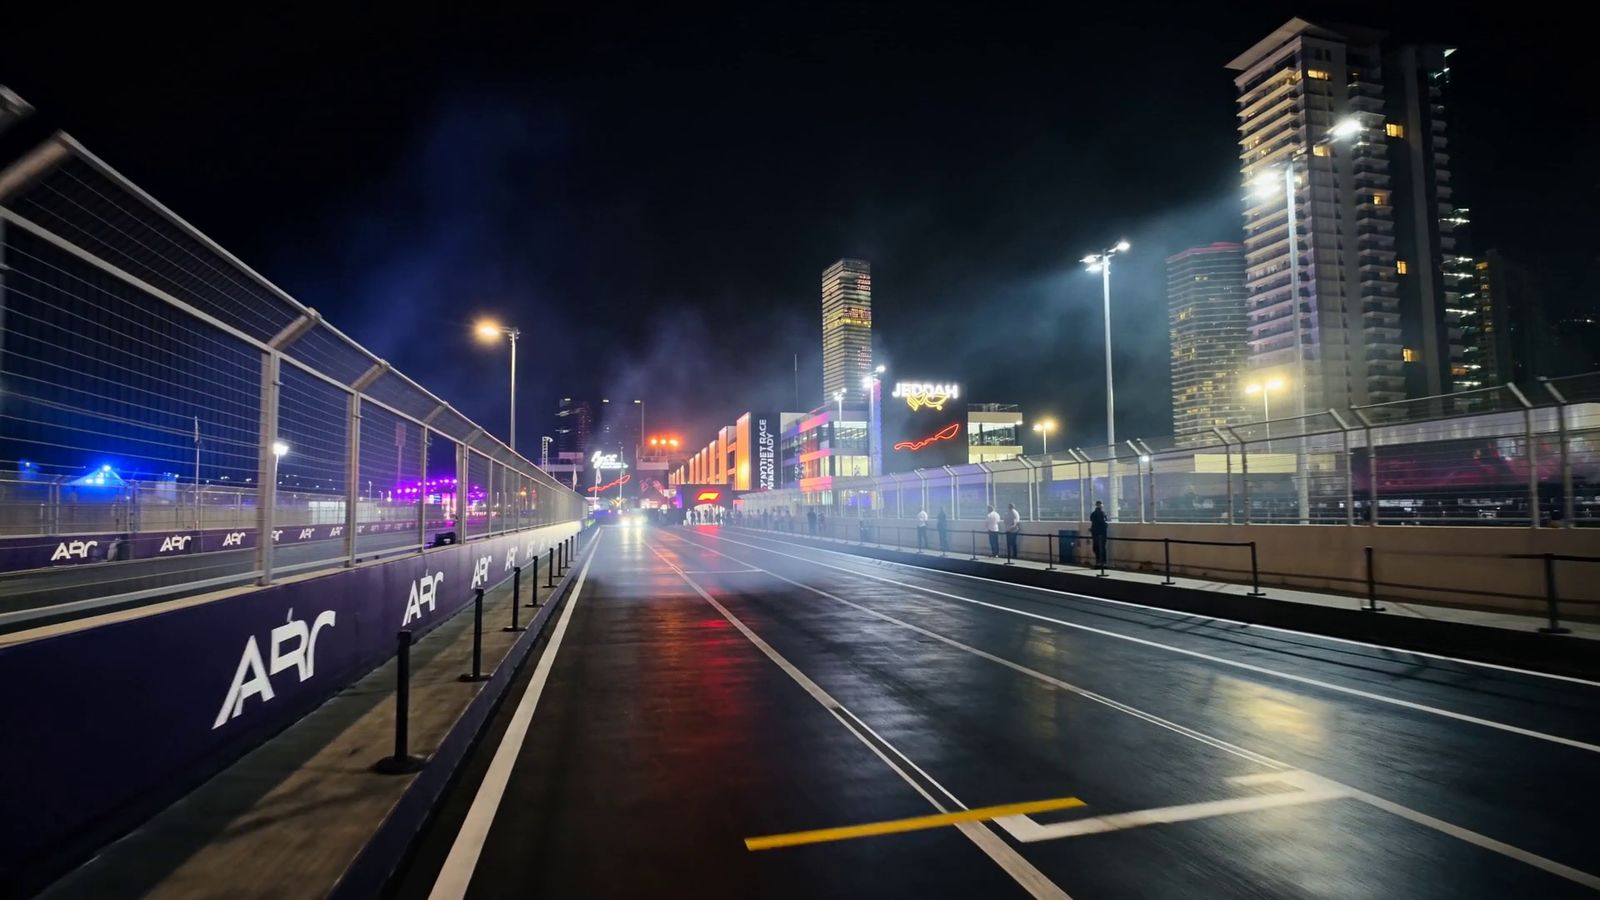
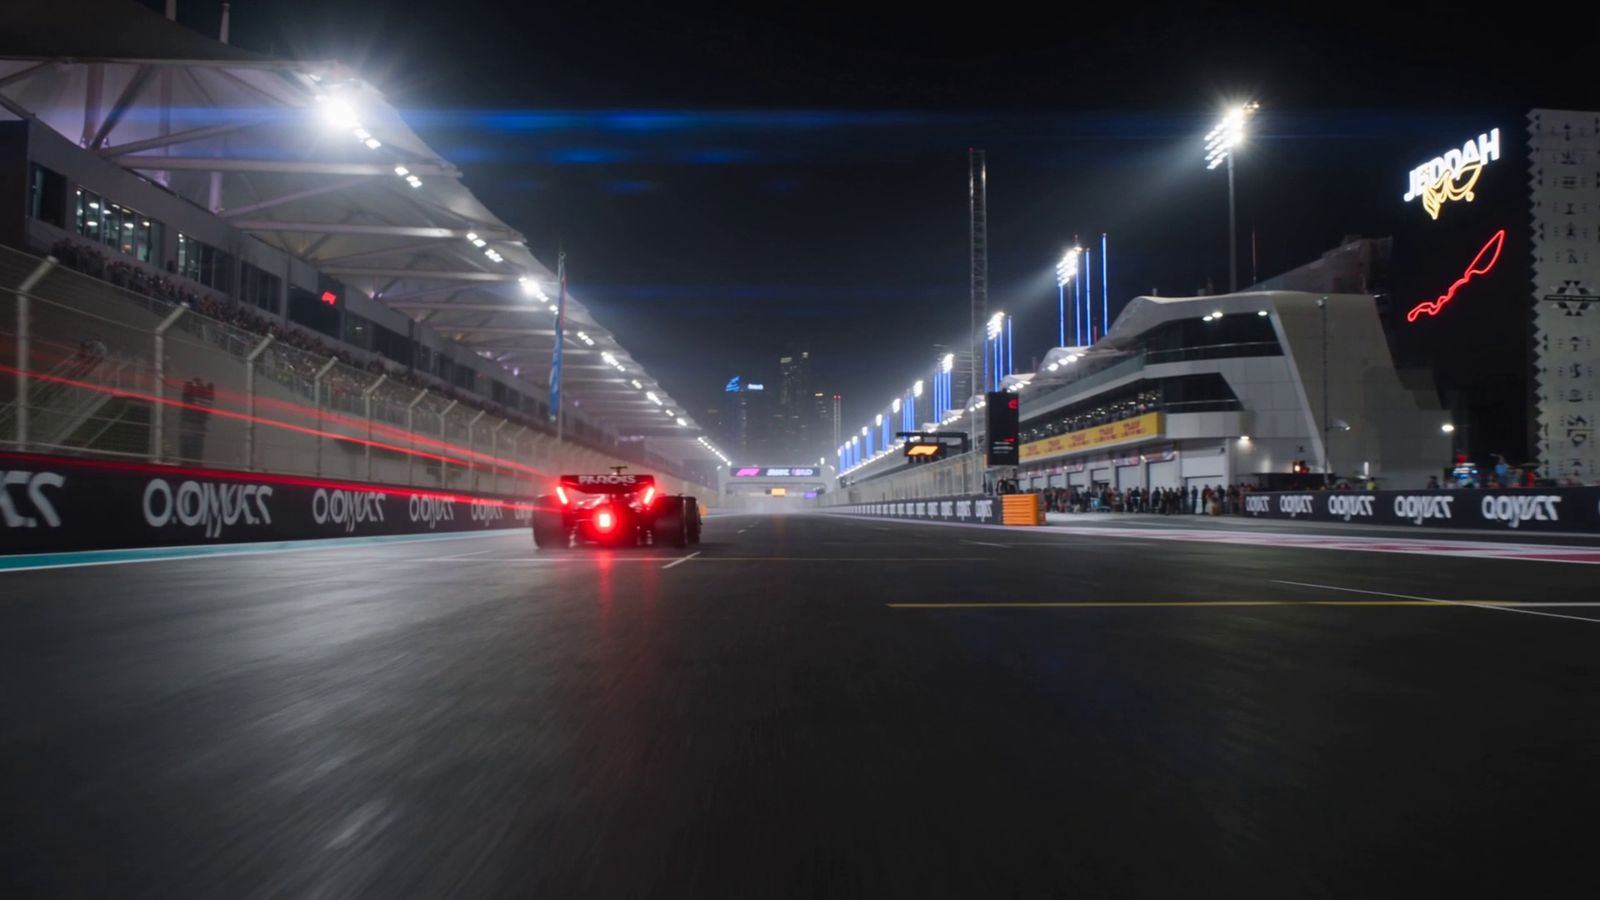
Refactor code structure for improved readability and maintainability

diff --git a/src/components/sections/Work.jsx b/src/components/sections/Work.jsx
@@ -5,13 +5,14 @@ import { projects } from '../../data/projects'
 import { Reveal } from '../animations/Reveal'
 import ProjectCard from '../ui/ProjectCard'
 
-// Editorial asymmetric layout: [7|5] [5|7] [7|cta]
+// Editorial asymmetric layout for 6 featured projects: [7|5] [5|7] [7|5]
 const LAYOUT = [
   { span: 'lg:col-span-7', size: 'lg' },
   { span: 'lg:col-span-5', size: 'md' },
   { span: 'lg:col-span-5', size: 'md' },
   { span: 'lg:col-span-7', size: 'lg' },
   { span: 'lg:col-span-7', size: 'lg' },
+  { span: 'lg:col-span-5', size: 'md' },
 ]
 
 function Cell({ children, span, i }) {
@@ -49,39 +50,10 @@ export default function Work() {
 
         <div className="grid grid-cols-1 lg:grid-cols-12 gap-4 md:gap-5">
           {projects.map((p, i) => (
-            <Cell key={p.slug} span={LAYOUT[i].span} i={i}>
-              <ProjectCard project={p} size={LAYOUT[i].size} />
+            <Cell key={p.slug} span={(LAYOUT[i] || LAYOUT[LAYOUT.length - 1]).span} i={i}>
+              <ProjectCard project={p} size={(LAYOUT[i] || LAYOUT[LAYOUT.length - 1]).size} />
             </Cell>
           ))}
-
-          {/* CTA tile fills the asymmetric gap */}
-          <motion.div
-            className="lg:col-span-5"
-            initial={{ opacity: 0, y: 30 }}
-            whileInView={{ opacity: 1, y: 0 }}
-            viewport={{ once: true, margin: '-60px' }}
-            transition={{ duration: 0.7, delay: 0.08, ease: [0.16, 1, 0.3, 1] }}
-          >
-            <Link
-              to="/work"
-              data-cursor="hover"
-              className="group flex flex-col justify-between h-full min-h-[280px] rounded-md border border-line-strong bg-ink-800/40 p-7 transition-colors duration-500 hover:border-acid hover:bg-ink-800"
-            >
-              <span className="font-display font-black text-fg-dim text-lg tabular-nums">/ WORK</span>
-              <div>
-                <h3 className="font-display font-bold text-2xl md:text-3xl leading-tight">
-                  Every build tells a story.
-                </h3>
-                <p className="mt-3 font-body text-sm text-fg-muted max-w-[32ch]">
-                  Explore the full portfolio — challenge, solution, execution and scale.
-                </p>
-                <span className="mt-6 inline-flex items-center gap-2 font-body text-sm text-acid">
-                  See all case studies
-                  <HiArrowRight className="transition-transform duration-300 group-hover:translate-x-1" />
-                </span>
-              </div>
-            </Link>
-          </motion.div>
         </div>
       </div>
     </section>

diff --git a/src/data/projects.js b/src/data/projects.js
@@ -112,6 +112,32 @@ export const projects = [
     gallery: [],
   },
   {
+    slug: 'katusha-exhibition',
+    title: 'Katusha',
+    client: 'Katusha',
+    year: '2025',
+    location: 'KSA',
+    category: 'Exhibition',
+    image: '/images/katusha-stand.jpg',
+    tags: ['Exhibition stand', 'Design & fabrication', 'Branding & signage'],
+    summary:
+      'A premium exhibition stand for Katusha, designed and fabricated in-house, with bespoke structures, illuminated product vitrines and full branding and signage systems.',
+    featured: true,
+    challenge:
+      'A flagship show-floor presence for Katusha and its co-brands (Rosatom, AYA) that had to read as premium and secure, and stand apart on a crowded exhibition floor.',
+    solution:
+      'A fully bespoke, engineered stand: an illuminated branded gantry, glass product vitrines with brass detailing, integrated screens and clean lit counters, built and installed to exhibition standard.',
+    execution:
+      'Exhibition stand design, bespoke fabricated structures, product display systems, LED lighting, and branding and signage systems.',
+    scale: [
+      { v: 'Custom', l: 'Bespoke stand build' },
+      { v: 'Multi-brand', l: 'Katusha · Rosatom · AYA' },
+      { v: '2025', l: 'Delivery' },
+    ],
+    services: ['Stand design', 'Bespoke fabrication', 'Product displays', 'Branding & signage', 'LED lighting'],
+    gallery: ['/images/katusha-aisle.jpg', '/images/katusha-render.jpg'],
+  },
+  {
     slug: 'fortinet-corporate-event',
     title: 'Fortinet Corporate Event',
     client: 'Fortinet Inc.',

diff --git a/src/components/ui/BackButton.jsx b/src/components/ui/BackButton.jsx
@@ -8,8 +8,7 @@ import { HiArrowLeft } from 'react-icons/hi2'
 export default function BackButton({ label = 'Back', className = '' }) {
   const navigate = useNavigate()
   const goBack = () => {
-    if (window.history.length > 1) navigate(-1)
-    else navigate('/')
+    navigate('/')
   }
   return (
     <button

diff --git a/CLAUDE.md b/CLAUDE.md
@@ -22,7 +22,9 @@ There is **no test or lint script** configured (package.json has only dev/build/
 
 ## Tech stack
 
-React 19 + Vite 5 · Tailwind CSS 3 · Framer Motion 12 (all animation) · Lenis (smooth scroll) · react-router-dom 7 · react-helmet-async (SEO) · react-icons · Resend (contact email, serverless only). Deploys to **Vercel** (project root = this `frontend/` folder).
+React 19 + Vite 5 · Tailwind CSS 3 · Framer Motion 12 (all animation) · Lenis (smooth scroll) · react-router-dom 7 · react-helmet-async (SEO) · react-icons · Resend (contact email, serverless only). Deploys to **Vercel**.
+
+The Vite app lives at the **repository root** — `src/`, `public/`, `api/`, `index.html`, `vite.config.js`, `package.json`, `vercel.json` are all at the top level (the app was flattened up from an earlier `frontend/` subfolder, so ignore any lingering `frontend/…` path references).
 
 ## Architecture
 
@@ -47,6 +49,7 @@ React 19 + Vite 5 · Tailwind CSS 3 · Framer Motion 12 (all animation) · Lenis
 
 - **Button variants**: never override a variant's color by appending a `className` (Tailwind precedence is source-order, not class-order — this once produced a black-on-black button). Add a new variant in `components/ui/Button.jsx` instead (e.g. `dark`).
 - **Nav items** (`company.js` `nav`): items use **`href`** for in-page anchors (Home sections) or **`to`** for routes. `Navbar` and `Footer` branch on which is present; anchor clicks from a non-home route navigate home first, then scroll (via Lenis `getLenis()`).
+- **Featured Work grid** (`components/sections/Work.jsx`): its `LAYOUT` array drives an asymmetric 6-card grid (`[7|5] [5|7] [7|5]`) and is sized to the number of `projects`. If you add/remove a project in `data/projects.js`, update `LAYOUT` to keep the rows balanced (it falls back to the last entry so it won't crash). The `/work` index page (`pages/Work.jsx`) has its own `SIZES` array.
 - **Images**: optimized JPGs in `public/images/` (real project photos extracted from source decks). Hero background is `public/videos/hero-bg.mp4` (compressed ~1 MB) with `hero-poster.jpg`.
 - **SEO**: per-route `<Seo>` (react-helmet-async) sets title/description/canonical/OG/Twitter. `index.html` holds only site-wide bits (Organization JSON-LD, `og:site_name`) — do **not** re-add per-page meta there (causes duplicates). `public/robots.txt` + `public/sitemap.xml` list all routes.
 
@@ -55,5 +58,6 @@ React 19 + Vite 5 · Tailwind CSS 3 · Framer Motion 12 (all animation) · Lenis
 `api/contact.js` is a **Vercel Serverless Function** (`POST /api/contact`) using **Resend**. It validates input, drops bots via a `website` honeypot field, sends an admin notification (Reply-To = sender) + a best-effort sender confirmation, with brand-styled HTML emails. The form (`components/sections/Contact.jsx`) posts to it same-origin (no CORS).
 
 - Env vars (set in Vercel → Settings → Environment Variables; documented in `.env.example`): `RESEND_API_KEY`, `CONTACT_TO` (inbox for enquiries), `CONTACT_FROM` (verified sender, e.g. `XLIVE Production <[email redacted]>`).
+- **Env-var quoting gotcha**: in the **Vercel dashboard** the value box is literal — do **not** wrap values in quotes. A quoted `CONTACT_FROM` (`"XLIVE … <…>"`) becomes an invalid sender and Resend rejects the send with a **502**. Quotes belong only in a `.env` *file*. Editing env vars requires a **redeploy** to take effect.
 - **The function does not run under `npm run dev`** — use `npx vercel dev` (with a local `.env`) or test on a Vercel deployment.
 - `vercel.json` rewrites all non-`/api` routes to `index.html` (SPA deep-link support).